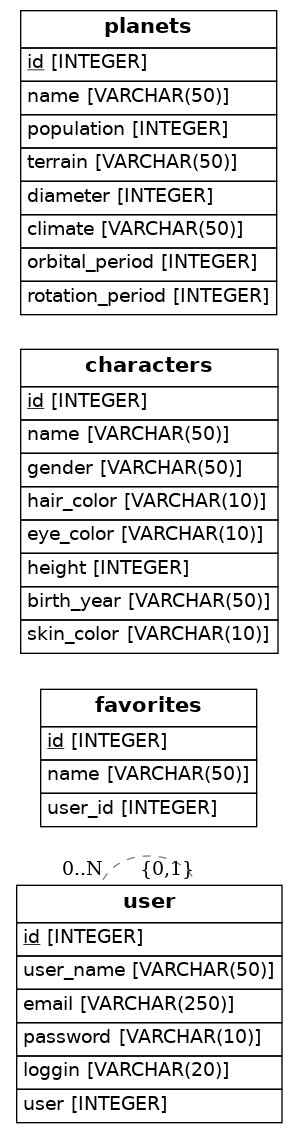
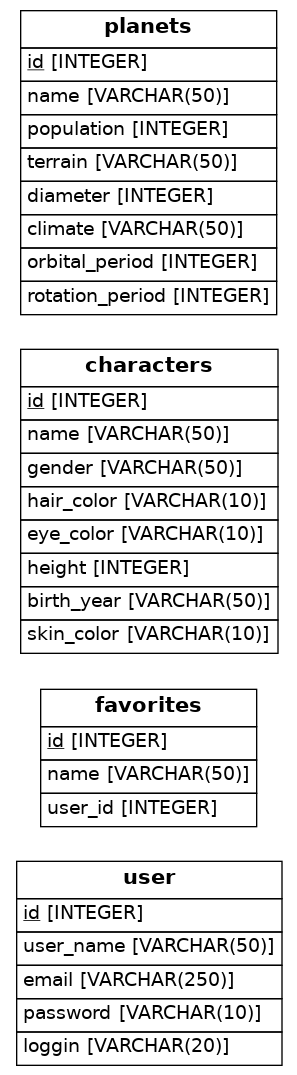
fixed issue between user and favorites

Changed region(s): [[0.0606, 0.0, 0.9394, 1.0], [0.9394, 0.7674, 0.9697, 0.7981], [0.0303, 0.7674, 0.0606, 0.7981]]

diff --git a/src/models.py b/src/models.py
@@ -15,15 +15,13 @@ class User(Base):
     email = Column(String(250), unique=True)
     password = Column(String(10), nullable=False)
     loggin = Column(String(20))
-    #user = Column(Integer, ForeignKey('user.id'))
-    user = relationship(User)
 
 class Favorites(Base):
     __tablename__ = 'favorites'
     id = Column(Integer, primary_key=True)
     name = Column(String(50))
     user_id = Column(Integer, ForeignKey('person.id'))
-    
+    favorites = relationship(User)
 
 class Characters(Base):
     __tablename__ = 'characters'
